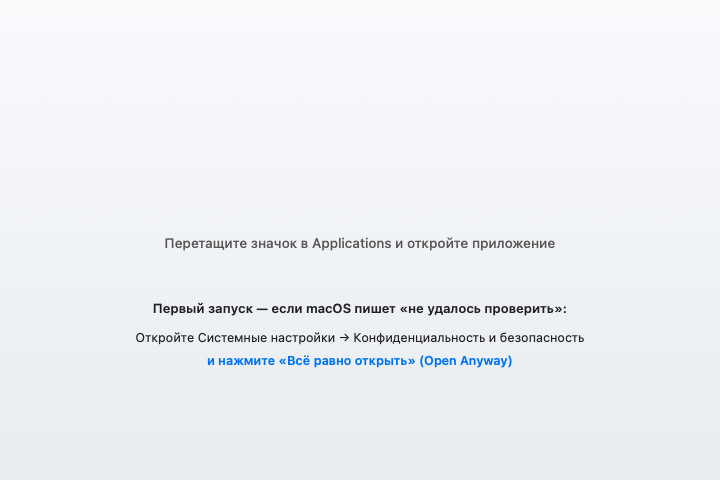
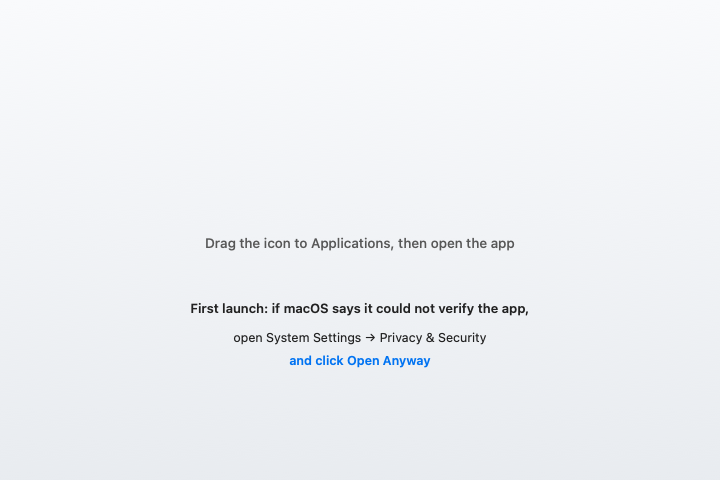
docs(i18n): document localization and show English in the DMG
- RULES.md gets a Localization section and an updated Prompts section.
- DEVELOPMENT.md and ARCHITECTURE.md describe the translation flow and the decision.
- The README no longer says the interface is Russian-only.
- The DMG background is English, since the image is shared by all users.

Changed region(s): [[0.1833, 0.6875, 0.825, 0.7812], [0.2139, 0.625, 0.7944, 0.6562], [0.2139, 0.5, 0.7639, 0.5312]]

diff --git a/packaging/macos/make-dmg-background.swift b/packaging/macos/make-dmg-background.swift
@@ -60,15 +60,15 @@ let dark = NSColor(white: 0.13, alpha: 1)
 let gray = NSColor(white: 0.34, alpha: 1)
 
 // ── Drag cue (just below the app + Applications icon row at y≈150) ────────────
-draw("Перетащите значок в Applications и откройте приложение",
+draw("Drag the icon to Applications, then open the app",
      top: 235, size: 13.5, weight: .medium, color: gray)
 
 // ── First-launch steps (the Gatekeeper "Open Anyway" path) ───────────────────
-draw("Первый запуск — если macOS пишет «не удалось проверить»:",
+draw("First launch: if macOS says it could not verify the app,",
      top: 300, size: 13, weight: .semibold, color: dark)
-draw("Откройте Системные настройки → Конфиденциальность и безопасность",
+draw("open System Settings → Privacy & Security",
      top: 330, size: 12.5, weight: .regular, color: dark)
-draw("и нажмите «Всё равно открыть» (Open Anyway)",
+draw("and click Open Anyway",
      top: 353, size: 12.5, weight: .semibold, color: accent)
 
 NSGraphicsContext.restoreGraphicsState()

diff --git a/RULES.md b/RULES.md
@@ -139,6 +139,7 @@ of repeating Whisper inference or issuing another paid LLM request.
 - `src/SidecarManager.{h,cpp}` — locates and launches the `meeting-server` binary next to the GUI executable, manages its lifecycle.
 - `src/ApiClient.{h,cpp}` — typed wrapper over the loopback HTTP API.
 - `src/JobPoller.{h,cpp}` — tracks async job state (transcription / protocol generation) over SSE, with polling as a fallback.
+- `src/Language.{h,cpp}` — resolves and stores the interface language, installs the translation before the QML engine loads.
 - `qml/Main.qml`, `qml/AppShell.qml`, `qml/MeetingStore.qml`, `qml/screens/` — UI tree.
 
 ### Sidecar Bridge
@@ -147,12 +148,26 @@ of repeating Whisper inference or issuing another paid LLM request.
 
 ### Prompts
 
-LLM prompt templates are Russian-language `.md` files. Two distinct roles:
+LLM prompt templates are `.md` files, one set per language in `/prompts/ru/` and `/prompts/en/`. A template fixes the language of its output: an English template on a Russian meeting gives English minutes. Two distinct roles:
 
-- **Bundle (read-only, compile-time):** `/prompts/` is the source of truth, **embedded into the binary** via `include_str!` (`EmbeddedBundle`, mirroring the `MIGRATIONS` const). Shipping a new bundled template = drop a `.md` in `/prompts/` + add one line to `BUNDLED`.
+- **Bundle (read-only, compile-time):** `/prompts/` is the source of truth, **embedded into the binary** via `include_str!` (`EmbeddedBundle`, mirroring the `MIGRATIONS` const). Shipping a new bundled template = drop a `.md` in `/prompts/<language>/` + add one line to `BUNDLED`. Names must be unique across languages, because the tombstones below are keyed by name alone.
 - **Writable store (runtime):** the `TemplateLoader` port reads/writes a per-user dir, default `default_prompts_dir()` = `$XDG_DATA_HOME/meeting-assistant/prompts/` (override via `settings.paths.prompts`). User edits live here and survive upgrades.
 
-On startup (sidecar `run()` and every CLI command) `backfill_templates` seeds the writable dir from the embedded bundle: writes only **missing** names, never overwrites, and skips `settings.removed_bundled_templates` (tombstones for bundled templates the user deleted — maintained by `AppTemplateService` on delete/save/rename). This makes a newly shipped template appear on upgrade without disturbing user customisations. Note: `/prompts/` is **no longer** the runtime dir — edits there only change the embed source and require a rebuild.
+On startup (sidecar `run()` and every CLI command) `backfill_templates` seeds the writable dir from the embedded bundle of the active language: the GUI passes it to the sidecar as `--language`, and without that flag (a sidecar started by hand, the CLI) it is `ru`. It writes only **missing** names, never overwrites, and skips `settings.removed_bundled_templates` (tombstones for bundled templates the user deleted, in any language — maintained by `AppTemplateService` on delete/save/rename). This makes a newly shipped template appear on upgrade without disturbing user customisations, and switching the app to the other language adds that language's templates beside the existing ones. Note: `/prompts/` is **no longer** the runtime dir — edits there only change the embed source and require a rebuild.
+
+`classify_section` in `core/src/entities/protocol.rs` sorts minutes into sections by their headings, so a new heading in a bundled template needs a decision there; a test walks every heading of the English templates. It and `_emptyMarker` in `ProtocolDocument.qml` know both languages.
+
+### Localization
+
+The app ships in Russian and English. Russian is the **source language** of every `qsTr` string: `qt-app/i18n/meeting-assistant_en.ts` is the only translation, and QML tests that load no translator assert the Russian text.
+
+- **Which language runs:** `Language` resolves it at startup. An explicit choice wins; otherwise a system whose first language is Russian gets Russian and any other gets English. The choice lives in `QSettings` (`ui/language`), not `settings.json`, because the GUI needs it before the sidecar runs. One run keeps one language: changing it shows the restart banner.
+- **New user-visible text:** wrap it in `qsTr`, including in `.pragma library` JS, where it works and takes the file name as its context. Then run `cmake --build <dir> --target update_translations` and translate what it marks. CI fails on unfinished or outdated strings (`.github/scripts/check-translations.sh`), and `qt-app/tests/i18n` fails on Russian text or the old product name outside `qsTr`.
+- **Dates:** use `date.toLocaleString(Qt.locale(), format)`. `Qt.formatDateTime` with a format string always uses the C locale, whatever the language is.
+- **The backend holds no UI language.** The sidecar needs `--language` only to seed templates. Anything the user reads goes through a code or stage the GUI localizes (`PipelineStage`, `ErrorClass`, a delete's `warning_code`); the English text beside it is for logs and other clients.
+- **Whisper language:** new installs default to `auto`. A settings file that names no language means `ru`, the old default, so a saved setting never changes on upgrade.
+- **Name:** the visible product name is "Meeting Assistant". Internal `Meety*` components and theme identifiers stay as they are.
+- **DMG background:** English only, because the image is static and shared by all users.
 
 ### Settings persistence and hot-swap
 

diff --git a/docs/ARCHITECTURE.md b/docs/ARCHITECTURE.md
@@ -173,10 +173,23 @@ banner for those.
 
 ### Templates
 
-Built-in templates are embedded in the binary. At startup, any that are missing are
-copied to a per-user folder, where the user can edit them. Copying never overwrites,
-and it skips built-in templates the user has deleted, so upgrades add new templates
-without disturbing customizations.
+Built-in templates are embedded in the binary, one set per language. At startup, any
+of the active language that are missing are copied to a per-user folder, where the user
+can edit them. Copying never overwrites, and it skips built-in templates the user has
+deleted, so upgrades add new templates without disturbing customizations. A template
+fixes the language of its output, so minutes follow the template, not the interface.
+
+### Interface language
+
+The app runs in Russian or English: an explicit choice wins, a Russian system gets
+Russian, and any other system gets English. The choice is stored by the GUI rather than
+the sidecar, because the GUI needs it before the sidecar is running, and a new choice
+applies after a restart so that one run keeps one language.
+
+Russian stays the source language of the UI strings, so only the English translation
+exists as a file. The sidecar holds no UI language: it reports stages, error classes,
+and notice codes, and the GUI turns them into text. It uses the language only to choose
+which templates to seed.
 
 ### Database migrations
 

diff --git a/docs/DEVELOPMENT.md b/docs/DEVELOPMENT.md
@@ -8,7 +8,7 @@ See the [architecture overview](ARCHITECTURE.md) for how the parts fit together,
 - Rust. The version is pinned in `rust-toolchain.toml`, and rustup installs it
   automatically.
 - CMake 3.21 or newer.
-- Qt 6.7 or newer with Quick, Quick Controls 2, Network, Multimedia, and Svg.
+- Qt 6.7 or newer with Quick, Quick Controls 2, Network, Multimedia, Svg, and Linguist tools.
 - ffmpeg, which mixes microphone and system audio.
 
 Platform notes:
@@ -69,6 +69,20 @@ cargo fmt --manifest-path rust/Cargo.toml --all -- --check
 
 ```bash
 cargo clippy --manifest-path rust/Cargo.toml --workspace --all-targets -- -D warnings
+```
+
+```bash
+.github/scripts/check-translations.sh
+```
+
+## Translations
+
+Russian is the source language of the interface strings, and
+`qt-app/i18n/meeting-assistant_en.ts` holds the English translation. After changing a
+string, refresh the file and translate what it marks as unfinished:
+
+```bash
+cmake --build qt-app/build --target update_translations
 ```
 
 ## Developer tools

diff --git a/README.md b/README.md
@@ -15,8 +15,7 @@
 Record a meeting, get a transcript and structured minutes. Speech recognition runs on
 your computer, and you choose which AI writes the minutes.
 
-> **Alpha.** The interface and built-in templates are in Russian for now, and English
-> is in progress. Builds are not yet signed with commercial certificates.
+> **Alpha.** Builds are not yet signed with commercial certificates.
 
 ## Features
 
